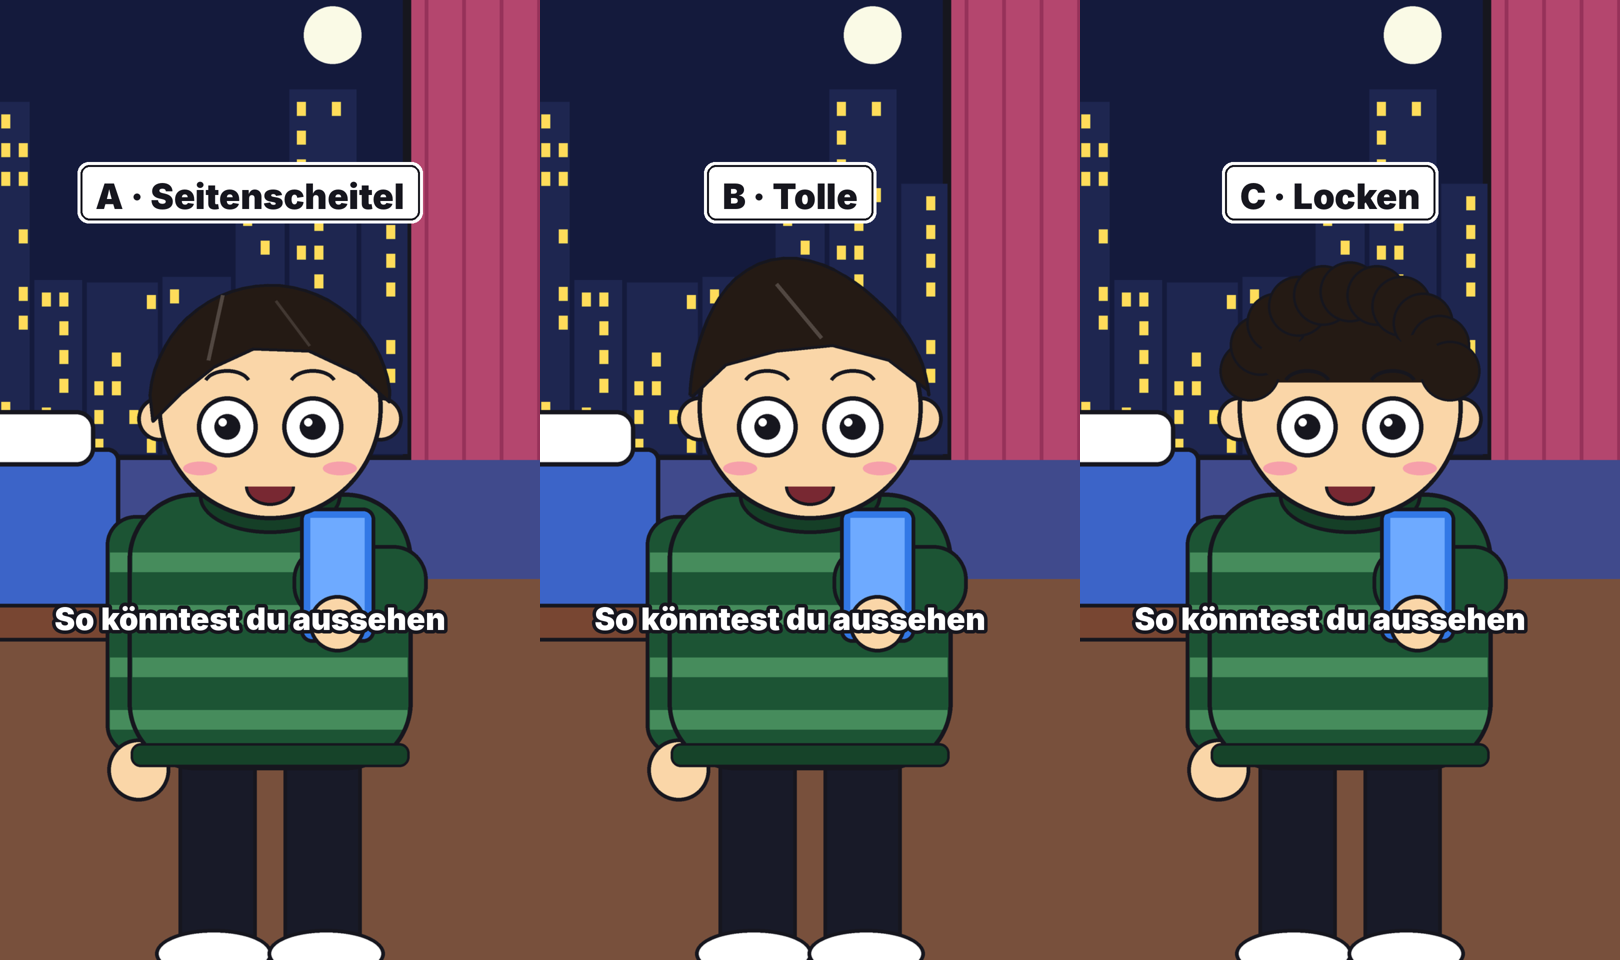
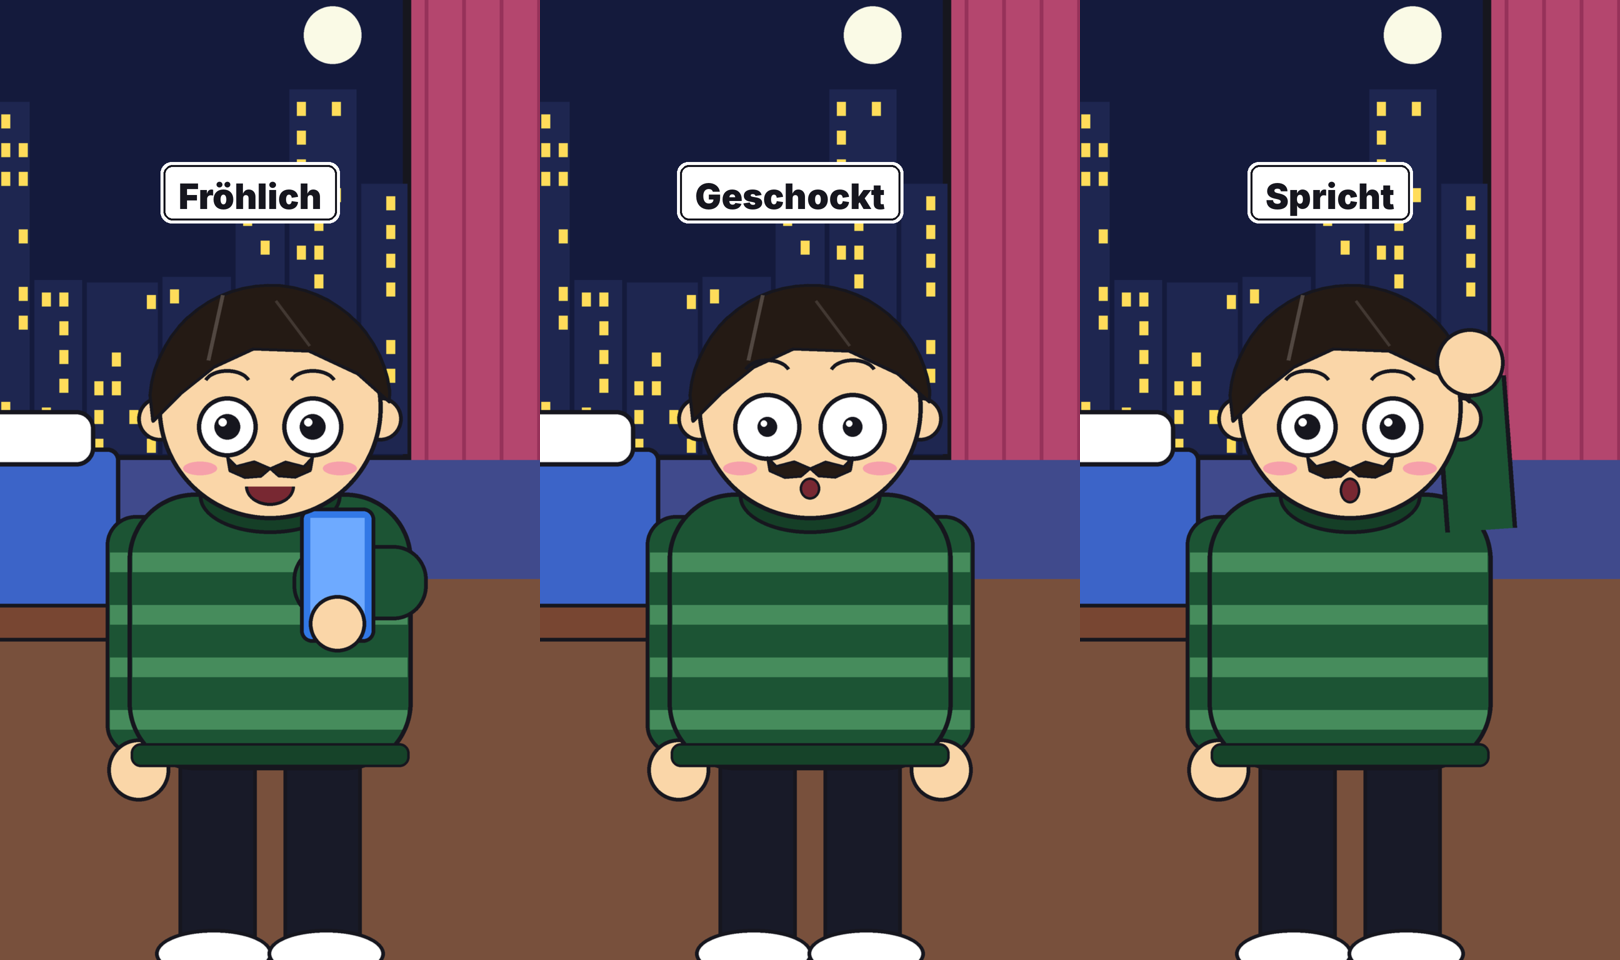
Main character: side part fixed, add moustache to HERO
Claude-Session: https://claude.ai/code/session_01H8VbNop1cYbodEqih19cnK

diff --git a/tiktok/reich/style3.py b/tiktok/reich/style3.py
@@ -26,7 +26,8 @@ BLUSH = (246, 160, 170)
 YELLOW = (255, 214, 10)
 # Main character look from video 12 on (user request 06.11.): dark hair, new hairstyle,
 # dark-green jumper with horizontal stripes. Use as: character(..., **HERO)
-HERO = dict(hair=(36, 26, 20), hoodie=(28, 84, 52), outfit="sweater", stripe=(70, 140, 92), hair_style="side")
+HERO = dict(hair=(36, 26, 20), hoodie=(28, 84, 52), outfit="sweater", stripe=(70, 140, 92), hair_style="side",
+            mustache=True)
 MONEY = (110, 190, 100)
 MONEY_D = (60, 140, 70)
 
@@ -218,8 +219,12 @@ def character(cv, x, y_feet, s=1.0, mood="neutral", arms="phone", blink=False, t
         fringe += [(x + r * 1.0, hy - r * 0.6), (x, hy - r * 1.1), (x - r * 1.0, hy - r * 0.6)]
         cv.poly(fringe, hair, INK, 5)
     face(cv, x, hy + r * 0.12, r, mood, blink, look, talk, glasses, tear)
-    if mustache:
-        cv.d.chord(cv.s((x - r * 0.3, hy + r * 0.48, x + r * 0.3, hy + r * 0.78)), 180, 360, fill=hair)
+    if mustache:  # two curved lobes above the mouth, tips slightly turned up
+        my = hy + r * 0.58
+        for sx in (-1, 1):
+            cv.poly([(x, my - r * 0.04), (x + sx * r * 0.14, my - r * 0.1), (x + sx * r * 0.3, my - r * 0.06),
+                     (x + sx * r * 0.38, my - r * 0.14), (x + sx * r * 0.36, my - r * 0.02), (x + sx * r * 0.22, my + r * 0.04),
+                     (x + sx * r * 0.08, my + r * 0.03)], hair, INK, 4)
     if specs:
         for sx in (-1, 1):
             cv.circle(x + sx * r * 0.38, hy + r * 0.17, r * 0.33, None, INK, 6)

diff --git a/CLAUDE.md b/CLAUDE.md
@@ -56,8 +56,8 @@ Der Nutzer hat bei „Der Zeuge“ nicht verstanden, worum es geht. Deshalb ab s
 - Erzählung bleibt in der Du-Form.
 - **Hauptfigur ab Video 12 (Wunsch 06.11.):** dunkle Haare, neue Frisur, **dunkelgrüner Pullover mit
   waagerechten hellgrünen Streifen** (Rundhals, kein Hoodie). Im Code immer `character(..., **T.HERO)`
-  verwenden (`tiktok/reich/style3.py`). Frisur-Varianten: `side` (Seitenscheitel, Standard),
-  `quiff` (Tolle), `curly` (Locken) – Vorschau: `tiktok/reich/figur_neu_vorschau.png`.
+  verwenden (`tiktok/reich/style3.py`). Festgelegt: **Frisur A = Seitenscheitel** (`side`) und
+  **Schnauzer** (`mustache=True`) – beides ist in `HERO` enthalten. Vorschau: `tiktok/reich/figur_neu_vorschau.png`.
 
 ## Kanal
 - Name: **Du-Geschichten 🎭** (@du.geschichten), Profilbild: `tiktok/profilbild/profilbild_B_pink.png`
